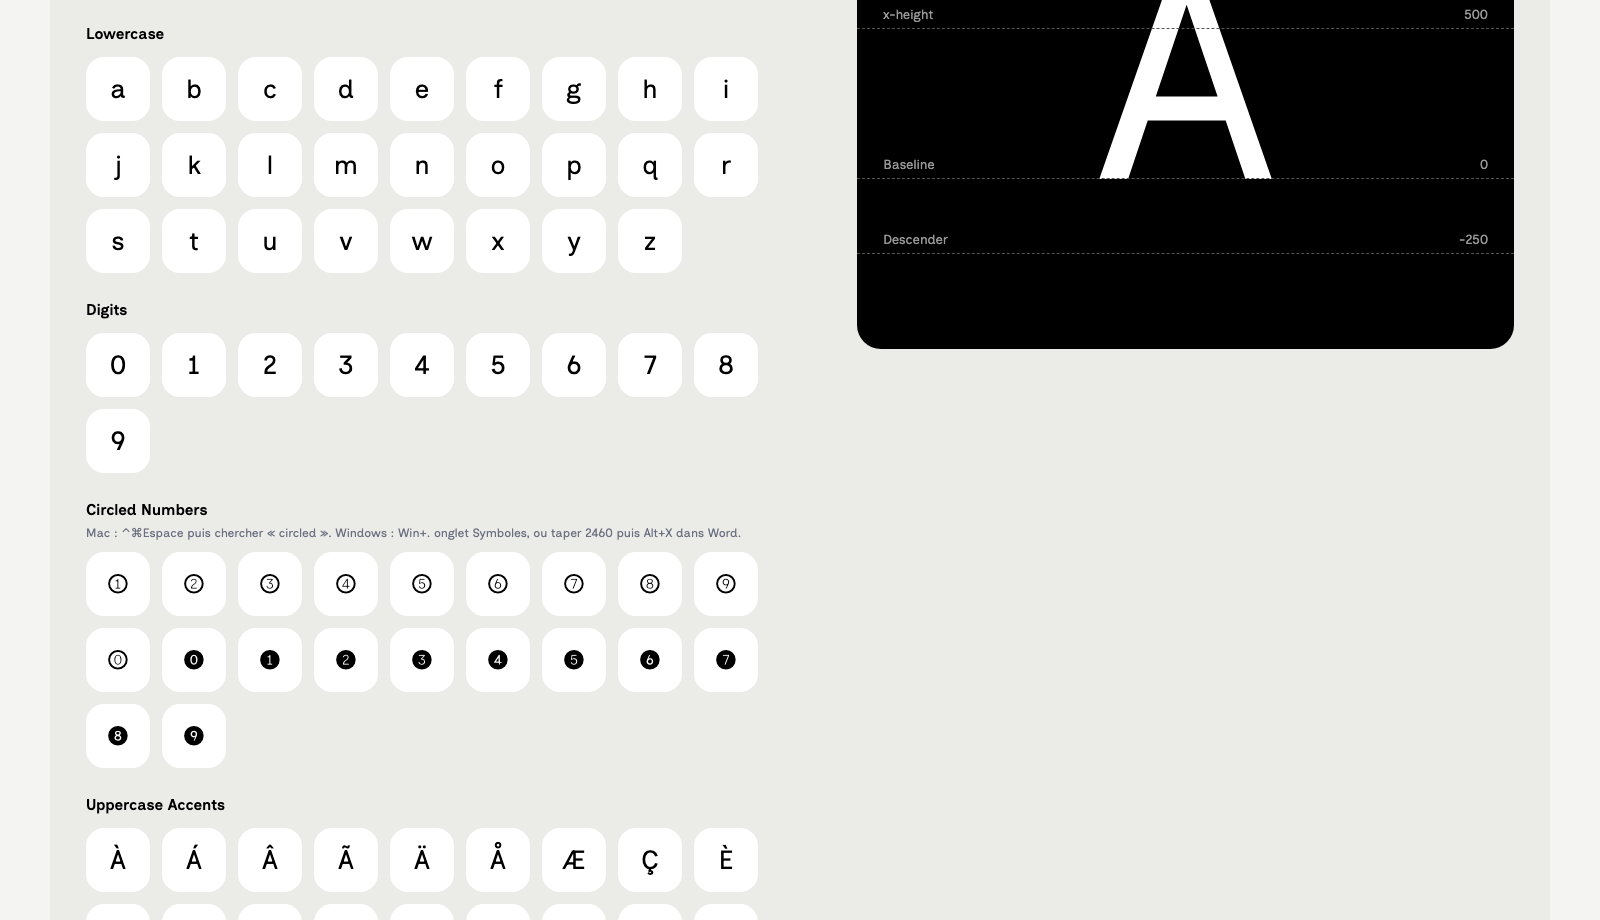
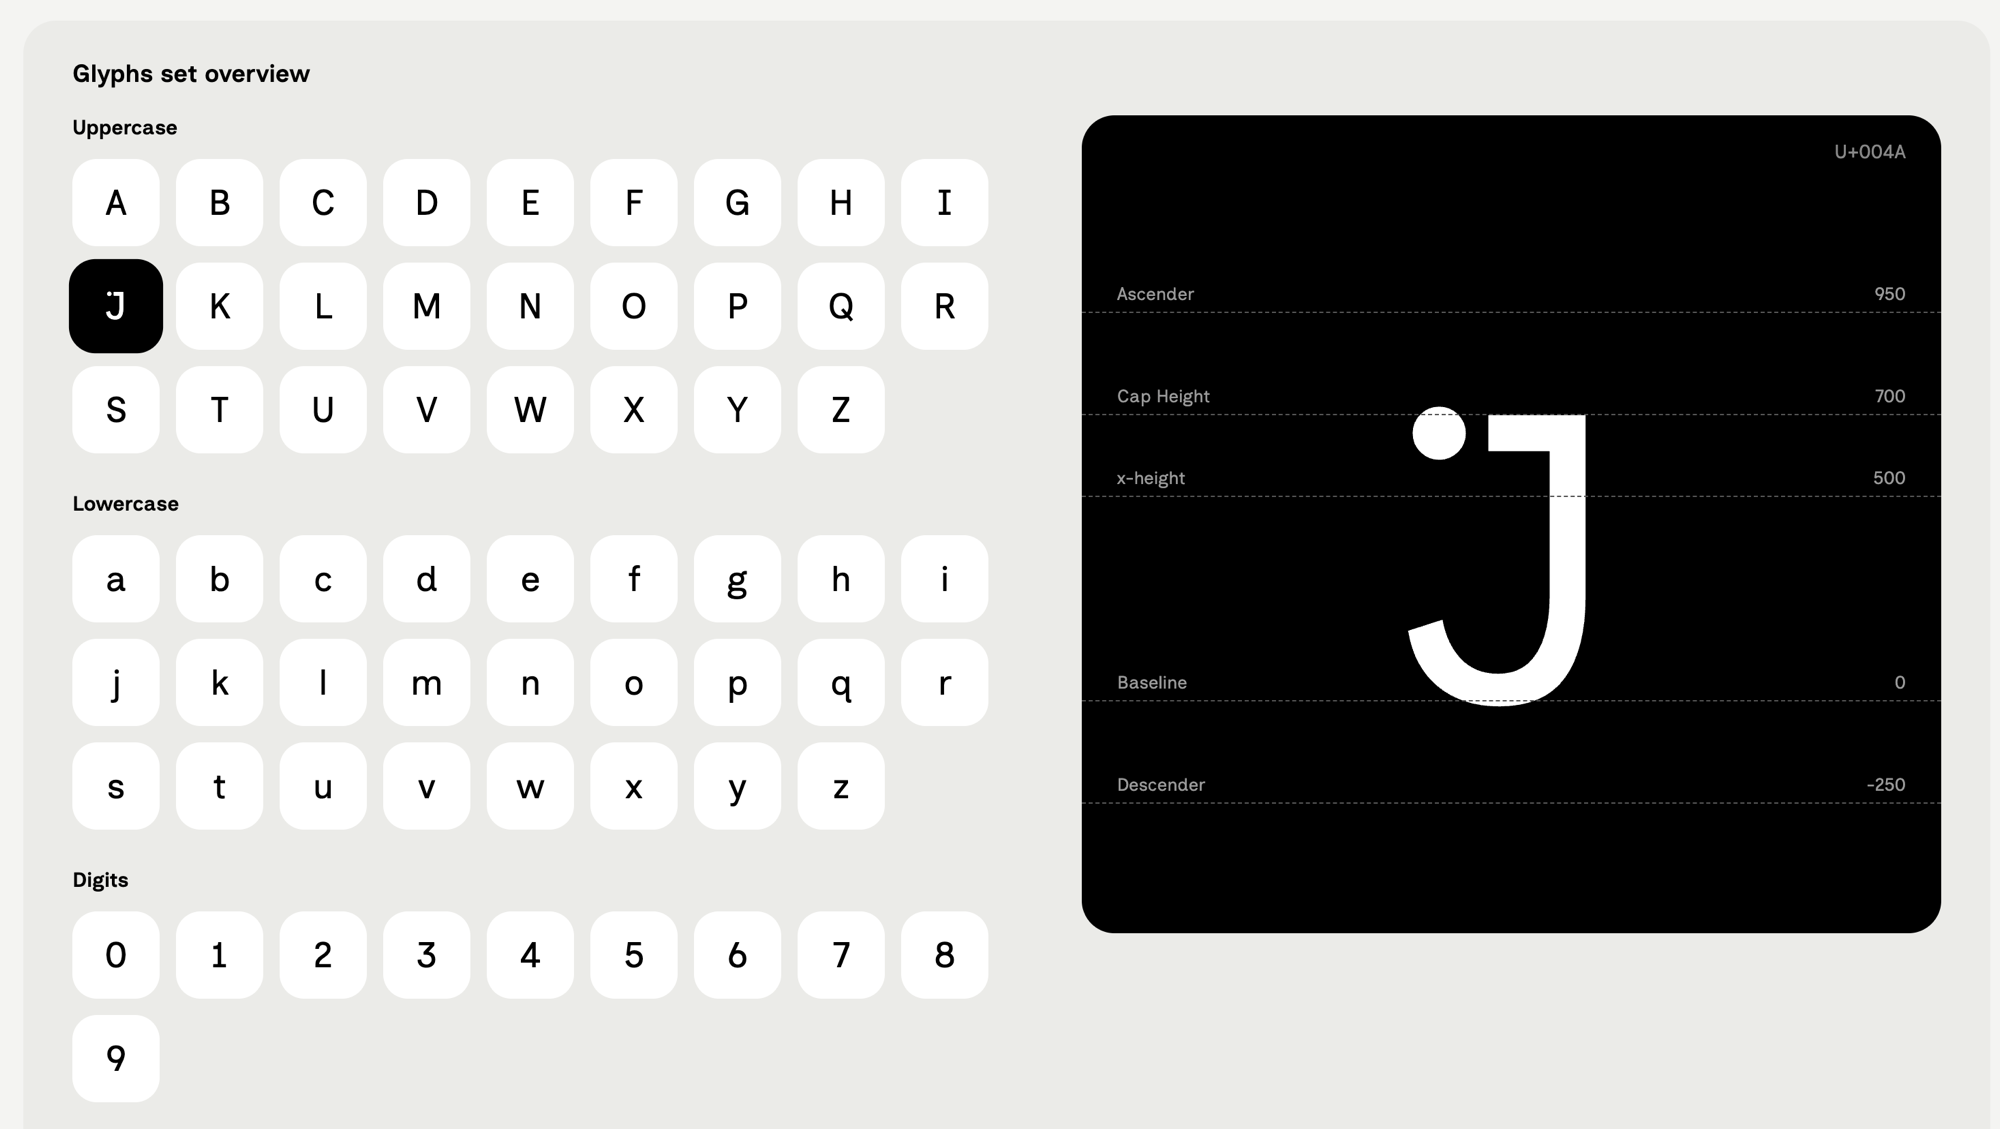
Corrige les captures du spécimen (header + grille de glyphes)

diff --git a/README.md b/README.md
@@ -49,10 +49,6 @@ Quatre familles de caractères pour l'identité Adservio. Toutes sous licence SI
 
 ## Spécimen
 
-![Graisses et styles](docs/images/specimen-weights.png)
-
-![Ligatures](docs/images/specimen-ligatures.png)
-
 ![Grille de glyphes et métriques](docs/images/specimen-glyphs.png)
 
 Version en ligne : [adservio.github.io/adservio-fonts](https://adservio.github.io/adservio-fonts/) — ou ouvrir `specimen.html` à la racine du package : testeur interactif (taille, interligne, espacement, graisses, italique), grille complète des glyphes et prévisualisation avec lignes de métriques pour les quatre familles.
